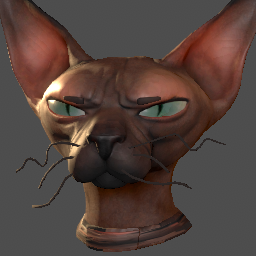
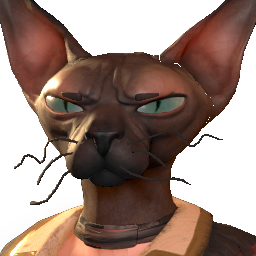
Modify the test png image. Inputs handling with States in the game loop!

diff --git a/GAEngine/GAEngine/GAWindow.cs b/GAEngine/GAEngine/GAWindow.cs
@@ -1,6 +1,7 @@
 using OpenTK;
 using OpenTK.Graphics;
 using OpenTK.Graphics.OpenGL;
+using OpenTK.Input;
 using System;
 using System.Drawing;
 
@@ -10,7 +11,7 @@ namespace GAEngine
     {
         private Texture2D _catTex;
 
-        public GAWindow() : base(400, 400, new GraphicsMode(32, 8, 0, 32), "GAEngine")
+        public GAWindow() : base(800, 800, new GraphicsMode(32, 8, 0, 32), "GAEngine")
         {
             VSync = VSyncMode.On;
             TargetRenderFrequency = 60;
@@ -26,6 +27,8 @@ namespace GAEngine
             GL.DepthFunc(DepthFunction.Lequal);
 
             GL.Enable(EnableCap.Texture2D);
+            GL.Enable(EnableCap.AlphaTest);
+            GL.AlphaFunc(AlphaFunction.Gequal, 0.7f);
 
             _catTex = ContentPipe.LoadTexture2D("Content/cat.png");
         }
@@ -58,11 +61,44 @@ namespace GAEngine
             // draw function
             DrawCat();
 
+            // model view matrix to define scale, rotation and translation of our "object"
+            modelViewMatrix =
+                Matrix4.CreateScale(1.2f, 1.2f, 1f) *
+                Matrix4.CreateRotationZ(25f) *
+                Matrix4.CreateTranslation(256f, 256f, 0f);
+            GL.MatrixMode(MatrixMode.Modelview);
+            GL.LoadMatrix(ref modelViewMatrix);
+
+            // draw function
+            DrawCat();
+
+            // model view matrix to define scale, rotation and translation of our "object"
+            modelViewMatrix =
+                Matrix4.CreateScale(1.2f, 1.2f, 1f) *
+                Matrix4.CreateRotationZ(-25f) *
+                Matrix4.CreateTranslation(200f, 256f, 0f);
+            GL.MatrixMode(MatrixMode.Modelview);
+            GL.LoadMatrix(ref modelViewMatrix);
+
+            // draw function
+            DrawCat();
+
             SwapBuffers();
         }
 
+        // input handling with States!
+        private KeyboardState _lastState;
         protected override void OnUpdateFrame(FrameEventArgs e)
         {
+            KeyboardState keyboardState = Keyboard.GetState();
+
+            if (keyboardState.IsKeyDown(Key.Space) &&
+                _lastState.IsKeyUp(Key.Space))
+            {
+                Console.WriteLine("Key down space!");
+            }
+
+            _lastState = keyboardState;
         }
 
         #region Test Methods
